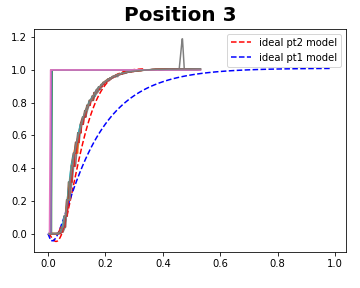
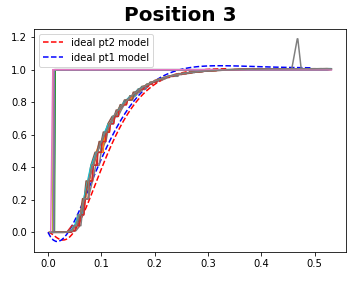
pt1 manual fit

diff --git a/identification_py2.py b/identification_py2.py
@@ -341,8 +341,18 @@ def ideal_pt1(ss_array, tc_array, d_array):
     ideal_tf_pt1                = con.matlab.tf(ideal_ss, [ideal_tc, 1])
     numerator, denominator      = con.pade(ideal_d, 1)
     ideal_d_tf_pt1              = con.matlab.tf(numerator,denominator)
-    ideal_yout_pt1, ideal_t_pt1 = con.matlab.step(ideal_tf_pt1 * ideal_d_tf_pt1)
-    return ideal_tf_pt1 * ideal_d_tf_pt1, ideal_yout_pt1, ideal_t_pt1
+    transfer_function           = ideal_tf_pt1 * ideal_d_tf_pt1
+    #############################################################################################################################
+    # manual fitting of ideal pt1 model
+    # Based on the assumption that the plot of denominator of the transfer function has only one intercept in x-axis
+    # We have ax ^ 2 + bx + c = 0
+    # Therefore we change b such that b ^ 2 - 4 * a * c = 0
+    # For more fitting, we round down the result
+    transfer_function.den[0][0][1]  = math.floor(math.sqrt(4 * transfer_function.den[0][0][0] * transfer_function.den[0][0][2]))
+    # To obtain the normal result, comment the above line
+    #############################################################################################################################
+    ideal_yout_pt1, ideal_t_pt1 = con.matlab.step(transfer_function)
+    return transfer_function, ideal_yout_pt1, ideal_t_pt1
 
 
 
